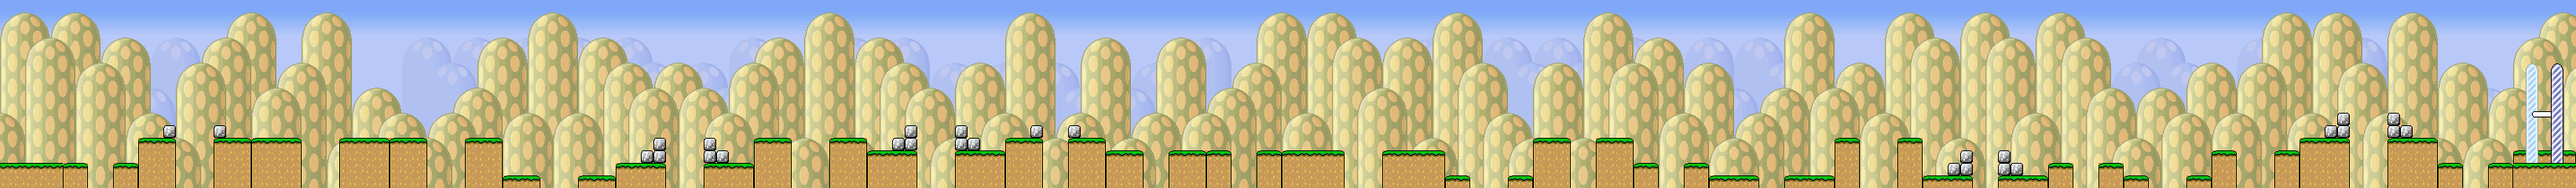
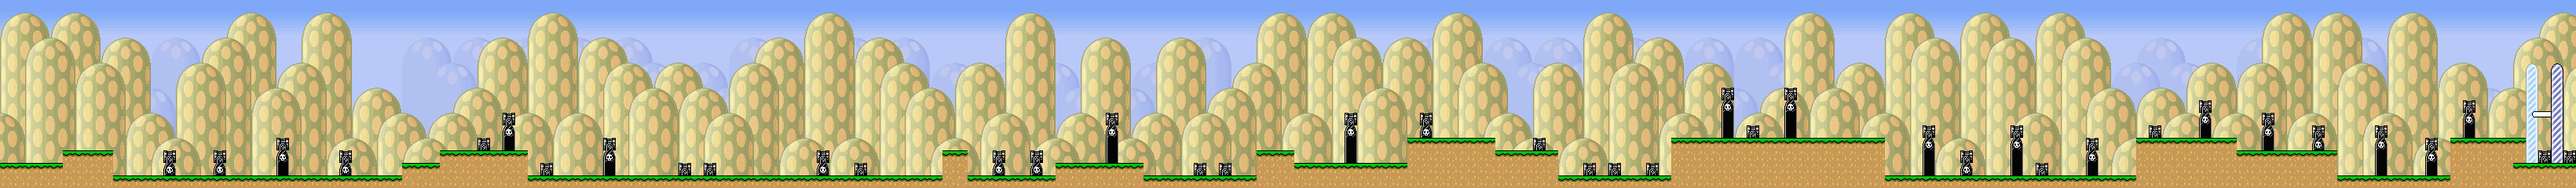
Cannons now have ground

Changed region(s): [[0.0, 0.4667, 1.0, 1.0]]

diff --git a/homework7/src/dk/itu/mario/engine/level/MyLevel.java b/homework7/src/dk/itu/mario/engine/level/MyLevel.java
@@ -49,7 +49,7 @@ public class MyLevel extends Level{
     for (int i=0;i<dna.length;i++) {
       switch (dna.chromosome.charAt(i)) {
         case 'a':
-          currentWorldLoc += this.buildJump(currentWorldLoc, 20);
+          currentWorldLoc += this.buildCannons(currentWorldLoc, 20);
           break;
         case 'b':
           currentWorldLoc += this.buildHillStraight(currentWorldLoc, 10, 1);
@@ -168,15 +168,25 @@ public class MyLevel extends Level{
     int floor = height - 1 - random.nextInt(4);
     int xCannon = xo + 1 + random.nextInt(4);
     for (int x = xo; x < xo + length; x++) {
+
+      // Space each cannon by 2-6
       if (x > xCannon) {
         xCannon += 2 + random.nextInt(4);
       }
       if (xCannon == xo + length - 1) xCannon += 10;
+
+      // Random cannon height
       int cannonHeight = floor - random.nextInt(4) - 1;
 
       for (int y = 0; y < height; y++) {
+        // Paint ground under floor
         if (y >= floor) {
-          setBlock(x, y, GROUND);
+          if (y==floor) {
+            setBlock(x, y, HILL_TOP);
+          }
+          else {
+            setBlock(x, y, GROUND);
+          }
         }
         else {
           if (x == xCannon && y >= cannonHeight) {
